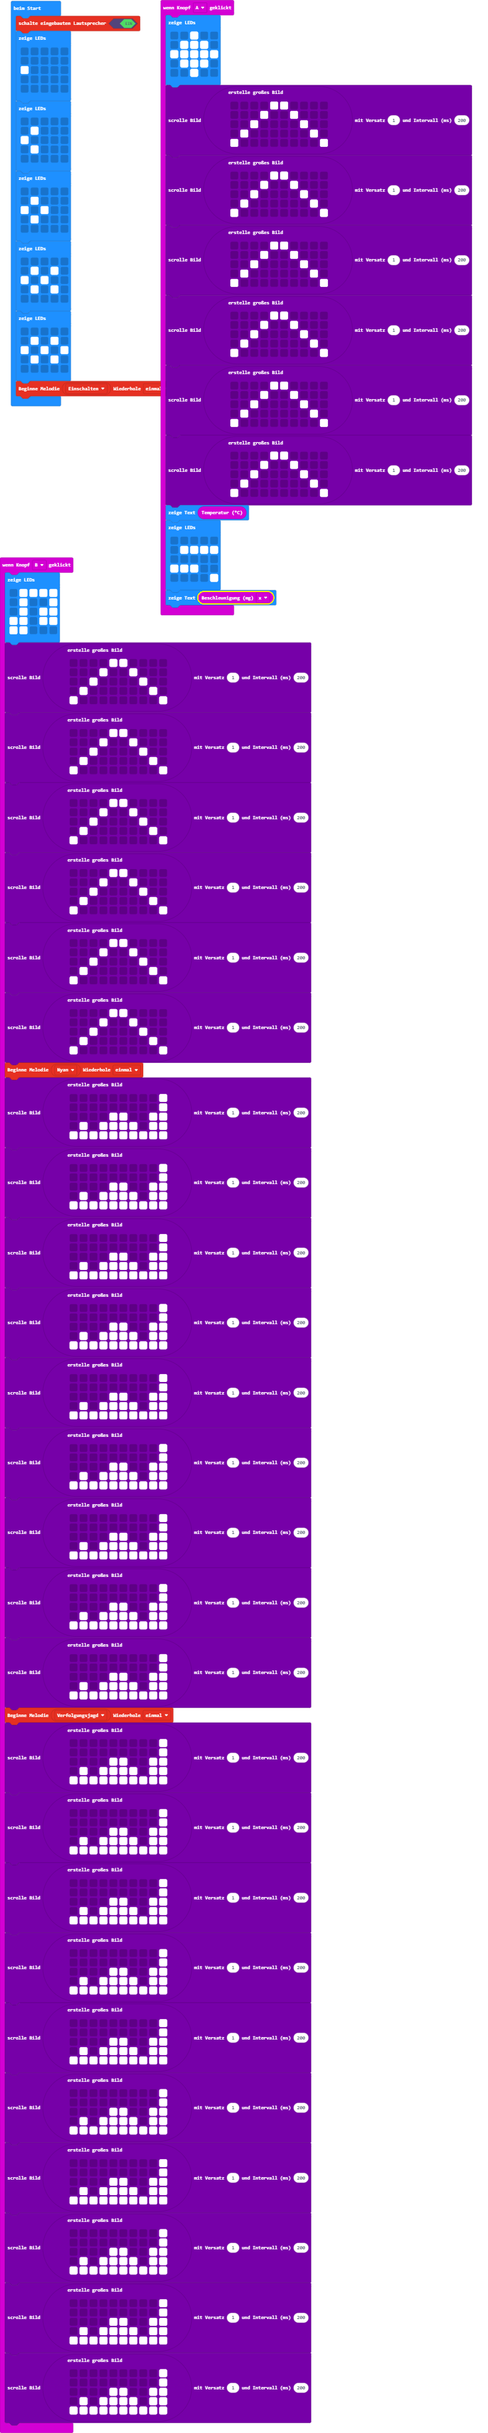
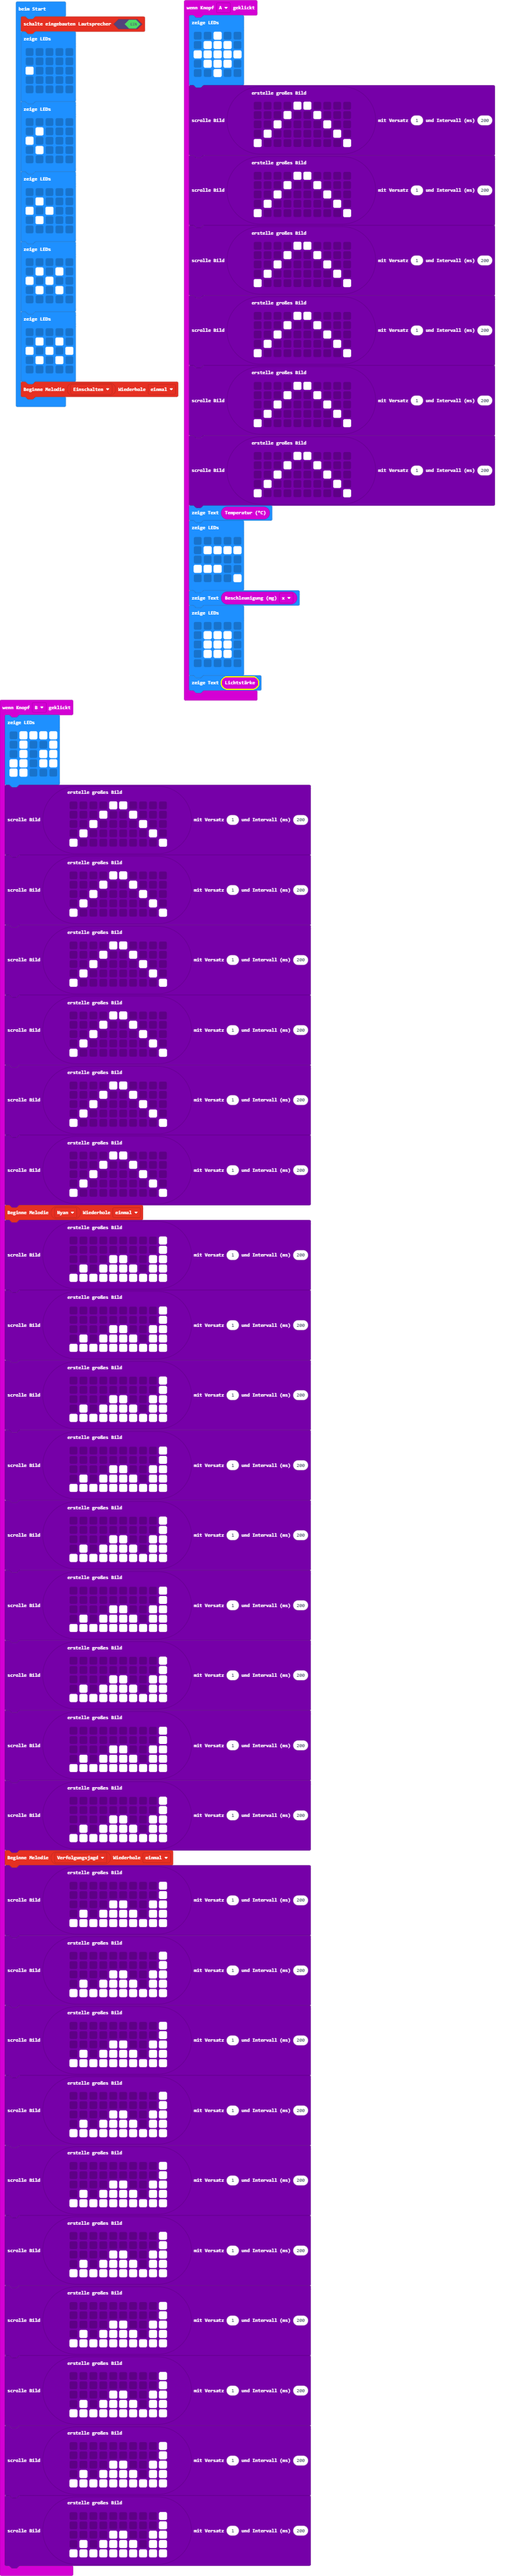
Lichtstärke

diff --git a/main.ts b/main.ts
@@ -57,6 +57,14 @@ input.onButtonPressed(Button.A, function () {
         . . . . #
         `)
     basic.showString("" + (input.acceleration(Dimension.X)))
+    basic.showLeds(`
+        . . . . .
+        . # # # .
+        . # # # .
+        . # # # .
+        . . . . .
+        `)
+    basic.showString("" + (input.lightLevel()))
 })
 input.onButtonPressed(Button.B, function () {
     basic.showLeds(`
